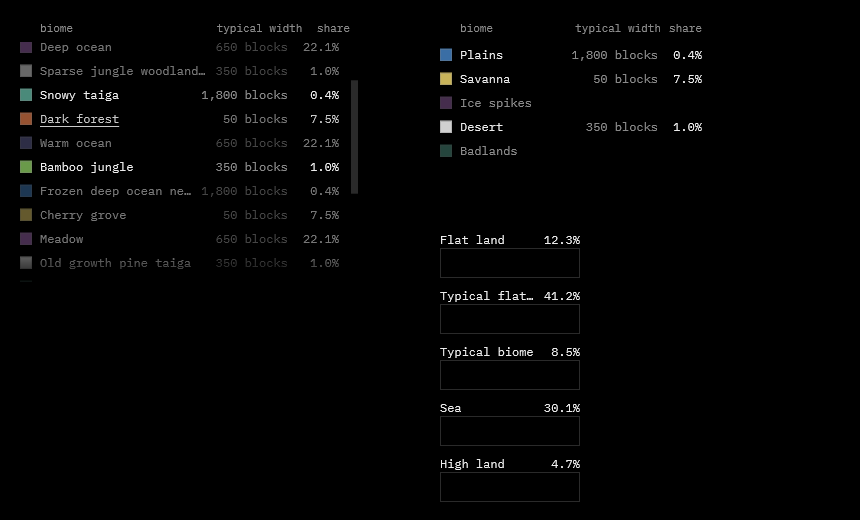
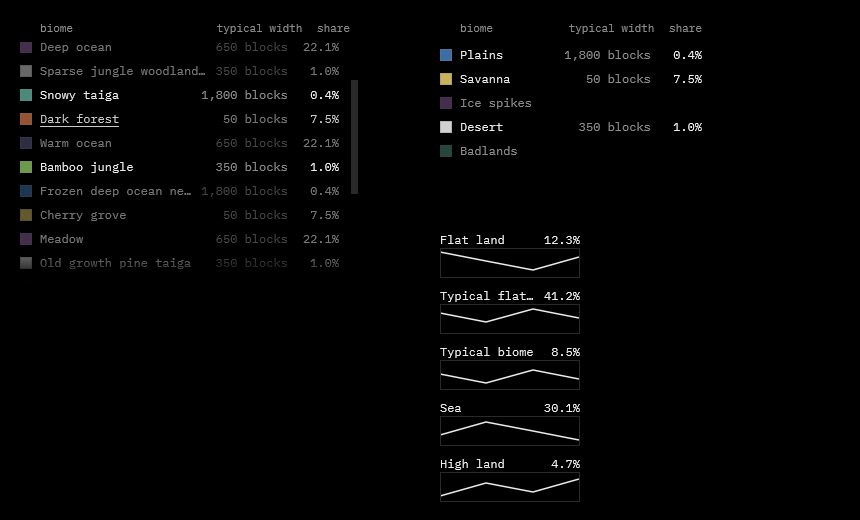
refactor(ui): drop the page's 1100 px list variant, no application uses it

diff --git a/demos/preview/src/shell.rs b/demos/preview/src/shell.rs
@@ -1148,7 +1148,7 @@ fn ore_list(ui: &mut Ui, s: &mut PreviewState, ids: &mut ShellIds, world: Option
     ids.list_title = title;
     // Line 2370-2372: the legend names the columns; a list without a cut has no legend.
     if shown.is_some() {
-        let head = ui.list_head("legend", text::ORE_LIST[1], text::ORE_COLUMNS[0], text::ORE_COLUMNS[1], false);
+        let head = ui.list_head("legend", text::ORE_LIST[1], text::ORE_COLUMNS[0], text::ORE_COLUMNS[1]);
         let hint = text::ore_columns_hint(&text::num(shown.map_or(0, |s| s.play.counted) as f64));
         ui.title(head[0], &hint);
         ui.title(head[1], &hint);
@@ -1157,7 +1157,7 @@ fn ore_list(ui: &mut Ui, s: &mut PreviewState, ids: &mut ShellIds, world: Option
         for (k, low, high, from) in &figures {
             let name = ORE_KINDS[*k];
             let row = ListRow { swatch: rgb(ORE_COLOURS[*k]), name: text::ORES[*k], width: low, share: high };
-            let opts = RowOpts { pressed: s.chosen_ores.contains(name), choosing: !s.chosen_ores.is_empty(), narrow: false, ..RowOpts::default() };
+            let opts = RowOpts { pressed: s.chosen_ores.contains(name), choosing: !s.chosen_ores.is_empty(), ..RowOpts::default() };
             let r = ui.list_row(&format!("ore{k}"), &row, opts);
             ui.title(r.id, &text::ore_from(from));
             ids.ores.push(r.id);
@@ -1264,7 +1264,7 @@ fn view_list(ui: &mut Ui, s: &mut PreviewState, ids: &mut ShellIds, world: Optio
 
     if legend_shown {
         let (width, share) = if counted { (text::COL_SPACING, text::COL_COUNT) } else { (text::COL_WIDTH, text::COL_SHARE) };
-        let head = ui.list_head("legend", column_word, width, share, false);
+        let head = ui.list_head("legend", column_word, width, share);
         // Only the spacing column of the structures says what it is (line 1643).
         if counted {
             ui.title(head[0], text::COL_SPACING_HINT);
@@ -1281,7 +1281,7 @@ fn view_list(ui: &mut Ui, s: &mut PreviewState, ids: &mut ShellIds, world: Optio
             let share = if counted { text::num(l.cells[i]) } else { percent(100.0 * l.cells[i] / total) };
             let width = blocks(l.widths[i]);
             let item = ListRow { swatch: rgb(l.colours[i]), name: &l.names[i], width: &width, share: &share };
-            let opts = RowOpts { pressed: chosen.contains(&l.ids[i]), choosing, narrow: false, mark: counted, ..RowOpts::default() };
+            let opts = RowOpts { pressed: chosen.contains(&l.ids[i]), choosing, mark: counted, ..RowOpts::default() };
             let r = ui.list_row(&format!("row{i}"), &item, opts);
             // The biomes and the structures are named by their id on hover (line 1660).
             if view == View::Biomes || counted {
@@ -1310,7 +1310,7 @@ fn view_list(ui: &mut Ui, s: &mut PreviewState, ids: &mut ShellIds, world: Optio
                 for (k, id) in absent.iter().enumerate() {
                     let name = text::pretty(id);
                     let item = ListRow { swatch: rgb(biome_colour(id)), name: &name, width: "", share: "" };
-                    let r = ui.list_row(&format!("absent{k}"), &item, RowOpts { absent: true, narrow: false, ..RowOpts::default() });
+                    let r = ui.list_row(&format!("absent{k}"), &item, RowOpts { absent: true, ..RowOpts::default() });
                     ui.title(r.id, id);
                     ids.absent_rows.push(r.id);
                 }

diff --git a/crates/nui-ui/tests/list.rs b/crates/nui-ui/tests/list.rs
@@ -57,7 +57,7 @@ fn fixture(ui: &mut Ui, y: &mut f32, opts: impl Fn(usize) -> RowOpts) -> (DrawLi
     let mut sr = None;
     let mut rows = Vec::new();
     ui.node("block", abs_at(20.0, 20.0, 330.0), |ui| {
-        ui.list_head("head", "biome", "typical width", "share", false);
+        ui.list_head("head", "biome", "typical width", "share");
         // basis Auto: the page's `flex: 1` would otherwise win over the 200 px height in a column.
         let style = Style { h: Dim::Px(200.0), grow: 0.0, basis: Dim::Auto, ..scroll_style() };
         sr = Some(ui.scroll("list", y, style, ScrollOpts::LIST, |ui| {
@@ -275,31 +275,27 @@ fn opacity_states() {
 #[test]
 fn legend_columns() {
     let t = Theme::dark();
-    for narrow in [false, true] {
-        let mut ui = Ui::new(t);
-        ui.begin_frame(SIZE);
-        ui.node("block", abs_at(20.0, 20.0, 330.0), |ui| {
-            ui.list_head("head", "biome", "typical width", "share", narrow);
-        });
-        let l = ui.end_frame().clone();
-        // The row's right edge is 350. "share" is 5 x 6.6 = 33 wide in a cell of at least 39.6 (33 narrow).
-        near(text_at(&l, "share").0.x, 350.0 - 33.0);
-        // "typical width" is 13 x 6.6 = 85.8, wider than its minimum, so its cell is its text:
-        // 350 - cell(39.6 or 33) - 8 - 85.8.
-        near(text_at(&l, "typical width").0.x, 350.0 - if narrow { 33.0 } else { 39.6 } - 8.0 - 85.8);
-        let (at, color) = text_at(&l, "biome");
-        near(at.x, 20.0 + 12.0 + 8.0);
-        same(color, t.muted);
-    }
-    // The widest case of the narrow minimum 46.2 for the width cell: a short word is held to it.
     let mut ui = Ui::new(t);
     ui.begin_frame(SIZE);
     ui.node("block", abs_at(20.0, 20.0, 330.0), |ui| {
-        ui.list_head("head", "biome", "w", "s", true);
+        ui.list_head("head", "biome", "typical width", "share");
     });
     let l = ui.end_frame().clone();
-    // Cells of 46.2 and 33, right-aligned: "w" ends at 350 - 33 - 8 = 309, so it starts at 309 - 6.6.
-    near(text_at(&l, "w").0.x, 309.0 - 6.6);
+    // The row's right edge is 350. "share" is 5 x 6.6 = 33 wide in a cell of at least 39.6.
+    near(text_at(&l, "share").0.x, 350.0 - 33.0);
+    // "typical width" is 13 x 6.6 = 85.8, wider than its minimum, so its cell is its text: 350 - 39.6 - 8 - 85.8.
+    near(text_at(&l, "typical width").0.x, 350.0 - 39.6 - 8.0 - 85.8);
+    let (at, color) = text_at(&l, "biome");
+    near(at.x, 20.0 + 12.0 + 8.0);
+    same(color, t.muted);
+    // A short word is held to the minimum cells 52.8 and 39.6, right-aligned.
+    let mut ui = Ui::new(t);
+    ui.begin_frame(SIZE);
+    ui.node("block", abs_at(20.0, 20.0, 330.0), |ui| {
+        ui.list_head("head", "biome", "w", "s");
+    });
+    let l = ui.end_frame().clone();
+    near(text_at(&l, "w").0.x, 350.0 - 39.6 - 8.0 - 6.6);
     near(text_at(&l, "s").0.x, 350.0 - 6.6);
 }
 

diff --git a/demos/widgets/src/lists.rs b/demos/widgets/src/lists.rs
@@ -2,7 +2,7 @@
 //! builds all three cells; the sheet replays a few frames of it (the gutter comes one frame late, the scroll
 //! is set, the pointer moves) and keeps the last picture.
 //!
-//! Cell A is the biome list at the 1400 px column (330 wide), B the same at 1100 px (262 wide, narrow cells)
+//! Cell A is the biome list at the 1400 px column (330 wide), B a narrower column (262 wide)
 //! with absent rows and nothing to scroll, C the history's trend rows.
 
 use nui_base::{Cmd, Color, DrawList, Event, Vec2};
@@ -17,7 +17,7 @@ pub const LISTS: (u32, u32) = (860, 520);
 pub const A_POS: Vec2 = Vec2::new(20.0, 20.0);
 pub const B_POS: Vec2 = Vec2::new(440.0, 20.0);
 pub const C_POS: Vec2 = Vec2::new(440.0, 230.0);
-/// The widths of the columns: the page's `#listBlock` at 1400 px, at 1100 px, and the history column
+/// The widths of the columns: the page's `#listBlock` at 1400 px, a narrower one, and the history column
 /// (PLACEHOLDER: the page's column is wider; 140 shows the ellipsis of "Typical flat zone").
 pub const A_W: f32 = 330.0;
 pub const B_W: f32 = 262.0;
@@ -114,7 +114,7 @@ pub fn lists_live(ui: &mut Ui, s: &mut ListsState) {
     let ListsState { y_a, y_b, max_a, pressed, plots } = s;
     plots.clear();
     ui.node("a", column(A_POS, A_W, 6.0), |ui| {
-        ui.list_head("head", text::COL_BIOME, text::COL_WIDTH, text::COL_SHARE, false);
+        ui.list_head("head", text::COL_BIOME, text::COL_WIDTH, text::COL_SHARE);
         // basis Auto: the page's `flex: 1` would win over the height in a column.
         let style = Style { h: Dim::Px(A_H), grow: 0.0, basis: Dim::Auto, ..scroll_style() };
         let r = ui.scroll("list", y_a, style, ScrollOpts::LIST, |ui| {
@@ -130,13 +130,13 @@ pub fn lists_live(ui: &mut Ui, s: &mut ListsState) {
         *max_a = r.max;
     });
     ui.node("b", column(B_POS, B_W, 6.0), |ui| {
-        ui.list_head("head", text::COL_BIOME, text::COL_WIDTH, text::COL_SHARE, true);
+        ui.list_head("head", text::COL_BIOME, text::COL_WIDTH, text::COL_SHARE);
         let style = Style { h: Dim::Px(B_H), grow: 0.0, basis: Dim::Auto, ..scroll_style() };
         ui.scroll("list", y_b, style, ScrollOpts::LIST, |ui| {
             for (i, (name, absent)) in B_ROWS.into_iter().enumerate() {
                 let (width, share) = figures(i + 1);
                 let row = ListRow { swatch: swatch(i + 1), name, width, share };
-                ui.list_row(&format!("row{i}"), &row, RowOpts { absent, narrow: true, ..RowOpts::default() });
+                ui.list_row(&format!("row{i}"), &row, RowOpts { absent, ..RowOpts::default() });
             }
         });
     });

diff --git a/crates/nui-ui/src/list.rs b/crates/nui-ui/src/list.rs
@@ -27,8 +27,6 @@ pub struct RowOpts {
     pub choosing: bool,
     /// `.absent` (lines 337-338): muted, half-opaque swatch, and no width or share.
     pub absent: bool,
-    /// The 1100 px column (lines 360-363): narrower width and share cells.
-    pub narrow: bool,
     /// `i.mark` (line 348): the swatch is a round mark, as a structure's on the map.
     pub mark: bool,
 }
@@ -98,9 +96,8 @@ impl Ui {
         self.add_ellipsis(row.name, body, name_color, resp.hovered && !opts.absent);
         if !opts.absent {
             // `.width` and `.share` (lines 323-325): min 8ch and 6ch of 12 px, right-aligned.
-            let (w, s) = if opts.narrow { (50.4, 36.0) } else { (57.6, 43.2) };
-            self.cell("width", end_cell(w), row.width, body, t.faded(t.muted, o));
-            self.cell("share", end_cell(s), row.share, body, t.faded(t.text, o));
+            self.cell("width", end_cell(57.6), row.width, body, t.faded(t.muted, o));
+            self.cell("share", end_cell(43.2), row.share, body, t.faded(t.text, o));
         }
         self.close();
         resp
@@ -135,16 +132,15 @@ impl Ui {
     /// `.legend` (lines 352-354): the same columns at 11 px, muted. `min-width` is in 11 px `ch`, so the
     /// cells are narrower than the rows' (52.8 and 39.6 against 57.6 and 43.2); the right edges still meet
     /// because the cells are right-aligned. Returns the ids of the width and share cells, which may carry a title.
-    pub fn list_head(&mut self, key: &str, column: &str, width: &str, share: &str, narrow: bool) -> [Id; 2] {
+    pub fn list_head(&mut self, key: &str, column: &str, width: &str, share: &str) -> [Id; 2] {
         let id = self.key(key);
         let t = *self.theme();
         let look = TextLook { size: 11.0, line: 16.5, ..TextLook::body(Tone::Muted) };
         self.open(key, id, grid(Edges::default()), Paint::None);
         self.add("pad", Style { w: Dim::Px(12.0), ..Style::default() }, Paint::None);
         self.add_text(column, look, t.muted, false, Style::default());
-        let (w, s) = if narrow { (46.2, 33.0) } else { (52.8, 39.6) };
-        let w = self.cell("width", end_cell(w), width, look, t.muted);
-        let s = self.cell("share", end_cell(s), share, look, t.muted);
+        let w = self.cell("width", end_cell(52.8), width, look, t.muted);
+        let s = self.cell("share", end_cell(39.6), share, look, t.muted);
         self.close();
         [w, s]
     }

diff --git a/AGENTS.md b/AGENTS.md
@@ -22,6 +22,6 @@ A small native interface toolkit in Rust, owned end to end and grown piece by pi
 - `demos/shell-boxes`: the world preview's page shell laid out at 1400, 1200 and 1000 px and drawn as named boxes and the gallery of the page's grid rows and absolute boxes (`cargo test -p shell-boxes` writes `target/tmp/shell_<width>.png` and `target/tmp/gallery.png`).
 - `demos/preview`: the world preview's window: the shell (step 13: bar, three columns, the real settings sections and static values) and, with `--data DIR`, the 2D map of an out folder in the stage (step 14: the five views, pan, zoom, grid, cross, ticks, structure marks, probe), in a window or as a picture, and the 3D view inside the stage (step 15: `scene.rs`, shared with `demos/relief`; left-drag turns, the wheel zooms, `--camera`), and the Section view (step 16: `section.rs` the model and the ore play, `cut.rs` the look, the sheet, the strip and the probe; wheel, drag, strip, "Another cut", the ORES list; `--cut`, `--ore`, `--cut-look`) (`cargo test -p preview` writes `target/tmp/preview_<width>.png`, `map_*.png`, `relief3d_*.png`, `section_*.png`; `docs/shots/preview-*.png`, `map-*.png`, `stage-3d-*.png` and `section-*.png` are the pictures). `tools/page_paint.mjs` and `tools/page_section.mjs` are the reference runs of the page's own `paint()` and section code in Node, which `tests/page_paint.rs` and `tests/page_section.rs` compare byte for byte. And data and runs (step 17: `run.rs`; reads `--data`, default `C:\Games\preview\out`, with its `run.json`; Generate runs the script given by `--generator`, with `--pack`, following its `progress.json`, with a stop, a queued re-run, a learned pace and the busy veil; Export writes the 2D pictures and the section sheet; tested against `tools/stub_run.ps1`, never against the real `preview.ps1` yet; everything it writes goes under `--runs`, which must lie inside `target/tmp`, and `--data` is never written) (`cargo test -p preview` also writes `target/tmp/run_40.png` and `export_done.png`; `docs/shots/run-progress.png` and `export-done.png` are the pictures). And the right column (step 18: `figures.rs` the page's `measure` and the figure cells, `history.rs` the history and its trend lines, kept in `<runs>/history.json` and `before.json`; the list follows the view; the theme follows the system's light or dark setting, `--theme dark|light|system`; `tools/page_figures.mjs` is the reference run of the page's figures, lists and history in Node, which `tests/page_figures.rs` compares bit for bit) (`cargo test -p preview` also writes `target/tmp/figures_*.png`, `history_1400.png`, `structures_list.png` and `scheme_switched.png`; `docs/shots/figures-*.png`, `history.png` and `structures-list.png` are the pictures). And the launcher's bar and the fixed panels (step 19: `bar.rs` the bar on the window's own frame, drawn as the launcher draws it, with its tool switch between Home and the preview and its icons after Pixelarticons (MIT, notice in `demos/preview/THIRD-PARTY.md`); the bar floats, with no line under it, and the content starts 10 px under it (`CONTENT_TOP`, step 19.5); the side panels are fixed, 320 px on the left and 330 on the right, and the centre is one continuous column whose square side is `min(W - 762, H - 136)`, with no breakpoint and a minimum window of 1000x600; titles as tooltips, cursor shapes, a wake timer instead of a busy loop, a hidden window that still follows its run, `export.json` beside the pictures, and a preview folder that cannot be read shown as the page's note instead of a closed window) (`cargo test -p preview` also writes `target/tmp/responsive_*.png`, `bar_*.png`, `tooltip.png` and `error_*.png`; `docs/shots/bar-*.png`, `responsive-*.png`, `tooltip.png` and `error-*.png` are the pictures). The preview is native as of step 19; its Home pane is a placeholder. And the host's Home and the bar's extras (step 21): `home.rs` is the trait a host fills to give the Home pane (`PreviewApp::with_home`, `picture_with_home`), the bar shows the account (`#account`) and slides the preview tool's views open and shut in 220 ms (`reduce_motion` makes it jump), and a run's folders can be named one by one (`Runs::server_dir`, `out_dir`, `exports_dir`). The native launcher itself lives in the pack's repository, `launcher/native`, and depends on these crates and on `demos/preview` by path.
 - `demos/relief`: the preview's 3D scene alone in a window (or as a picture) with a facts plate; it reads the `out` folder through the `preview` crate.
-- `demos/widgets`: the widgets in the page's looks: a live window, `--shot`, and `cargo test -p widgets` writing `target/tmp/widgets_dark.png` and `widgets_light.png`, plus the input method sheet (the same test run writes `target/tmp/ime_<theme>.png`), and the controls sheet (folds, strip, choice, details, number fields): the same test run writes `target/tmp/controls_<theme>.png`, and `--controls` opens it live; the fields sheet (text and number fields driven by scripted events): the same test run writes `target/tmp/fields_<theme>.png`, and `--fields` opens it live; the lists sheet (biome list with scrollbar, narrow list with absent rows, trend rows): the same test run writes `target/tmp/lists_<theme>.png`, and `--lists` opens it live. The launcher controls sheet (step 21: icon buttons, select and its menu, disabled and left-aligned fields, toggle, hover row, underlined word): the same test run writes `target/tmp/launcher_controls_<theme>.png`, and `--launcher` opens it live.
+- `demos/widgets`: the widgets in the page's looks: a live window, `--shot`, and `cargo test -p widgets` writing `target/tmp/widgets_dark.png` and `widgets_light.png`, plus the input method sheet (the same test run writes `target/tmp/ime_<theme>.png`), and the controls sheet (folds, strip, choice, details, number fields): the same test run writes `target/tmp/controls_<theme>.png`, and `--controls` opens it live; the fields sheet (text and number fields driven by scripted events): the same test run writes `target/tmp/fields_<theme>.png`, and `--fields` opens it live; the lists sheet (biome list with scrollbar, a narrower list with absent rows, trend rows): the same test run writes `target/tmp/lists_<theme>.png`, and `--lists` opens it live. The launcher controls sheet (step 21: icon buttons, select and its menu, disabled and left-aligned fields, toggle, hover row, underlined word): the same test run writes `target/tmp/launcher_controls_<theme>.png`, and `--launcher` opens it live.
 - `GLOSSARY.md`: the project's words (bar, tool, view, strip, panel, stage, cut, probe, run…), confirmed with the maintainer; name things this way.
 - `docs/design.md`: the design dossier (module tree, reduced flex/grid, text field, build plan, risks).

diff --git a/docs/design.md b/docs/design.md
@@ -396,7 +396,7 @@ All screenshots are produced by `nui-shot <view-name> <w>x<h> [--scale 1.5] [--t
 | 9 | `nui-ui` core: Ui, ids, input, draw list, theme dark/light; label, button, toggle | Gallery PNG: labels in text/muted/warn tones, buttons in normal/hover/active (hover injected by the harness), toggle on/off; dark and light variants | 5 |
 | 10 | Fold, tabs (strip, choice, details), number field (without typing) | Controls sheet: a closed, a hovered and an open fold with its +/− sign, two strips (Flat and 2D pressed; a coarse map with three disabled), choice and details pressed, number fields right-aligned | 5 |
 | 11 | Text field: model + keys + caret + selection + clipboard (no IME) | Done: the fields sheet (`docs/shots/fields-dark.png`, `fields-light.png`): a 13-row script on the seed field (placeholder; click; `1234567890`; caret at 4; selection 2 to 6; copy and paste; deleting; a long text scrolled with the caret at the right edge; Ctrl+Backspace; select all; Escape), and cells for a double click, the profile name focused with all selected, a number stepped, clamped on Enter, and Tab between a seed and a setting | 7 |
-| 12 | List with scroll + ellipsis; history row layout | Done: the lists sheet (`docs/shots/lists-dark.png`, `lists-light.png`): a biome list of 20 rows taller than its box with a scrollbar thumb at 30 % in the 11 px gutter, the bottom 28 px fading out, pressed rows against faded ones, a hovered row with its name underlined and names ending in an ellipsis; a narrow list with absent rows and no scrollbar; five history trend rows with their 30 px plot slots | 3 |
+| 12 | List with scroll + ellipsis; history row layout | Done: the lists sheet (`docs/shots/lists-dark.png`, `lists-light.png`): a biome list of 20 rows taller than its box with a scrollbar thumb at 30 % in the 11 px gutter, the bottom 28 px fading out, pressed rows against faded ones, a hovered row with its name underlined and names ending in an ellipsis; a narrower list with absent rows and no scrollbar; five history trend rows with their 30 px plot slots | 3 |
 | 13 | Preview shell: three columns with the real settings sections, static values | Done: the shell at 1400, 1200 and 1000 px (`docs/shots/preview-1400.png`, `preview-1200.png`, `preview-1000.png`, `preview-1400-light.png`) beside a browser capture of the page (`target/tmp/page_<width>.png`, from the file without its server, so it shows fold heads, the seed field, the empty select, Generate, Export and the legend's words only): the left column's rule, the right column's rule and Export's right edge agree to the pixel at the three widths (28..348 and 1042..1372, 1014 at 1400; 22..318 and 898..1178, 874 at 1200; 16..288 and 722..984, 702 at 1000), and the section order matches | 6 |
 | 14 | 2D map view: paint() port, image upload, pan/zoom, nav frame | Done (the nav frame of the section view is step 16's): the five 2D views of `C:\Games\preview\out` in `demos/preview` (`docs/shots/map-*.png`). `paint()` is compared with the page's own code, not a canvas dump: `demos/preview/tools/page_paint.mjs` cuts the colours, `measure`, `listOf`, `bands` and `paint` out of preview.html and runs them in Node on the folder, and `tests/page_paint.rs` finds all 12 cases (five views x dark and light, a chosen-biome case, a chosen-height case) byte-identical, with the biome and structure colours, the structure order and the flat count. Through the window path (`PreviewApp` into the offscreen renderer) every sampled pixel of the rest look is one of the 3 x 3 texels around its place; at 8x zoom 327,184 interior pixels equal their texel exactly and 929 boundaries between different texels are sharp, so `DrawBitmap` nearest-neighbour is exact at a fractional scale (risk R6 did not need its fallback). The tick, the grid, the cross and a structure's disc are checked by pixel; a click on a tab repaints | 5 |
 | 15 | 3D view in the stage (Viewport slot), mouse orbit, view switching | Done: the page's `refresh3d` as `demos/preview/src/scene.rs`, shared with `demos/relief` (which lost its copies of the world, json, mesh and paint code: `paint()` differed in 0 of 262,144 bytes before the copy was removed, and the relief shot equals `docs/shots/relief-1280.png` byte for byte). In the stage (`docs/shots/stage-3d-relief.png`, `stage-3d-zoom.png`, `stage-3d-relief-light.png`, `stage-3d-biomes.png`) the terrain sits in the 638 px square only: every pixel outside it equals the interface list drawn alone, also with the camera zoomed to its near limit (all four edge lines 1 px inside the square are terrain), so the D3D viewport clips and no scissor rect was needed. Relief and 3D are pressed, the corner is `--ground` (`#000`, `#fafaf8` light), the probe has no ticks, a drag of 100 px turns by `2 pi x 100 / 638`, one notch is 0.95 of the distance, a press outside the square does not turn, and a click on a view tab repaints the drape while the camera is kept; in Section the 2D/3D tabs are not built | 3 |
